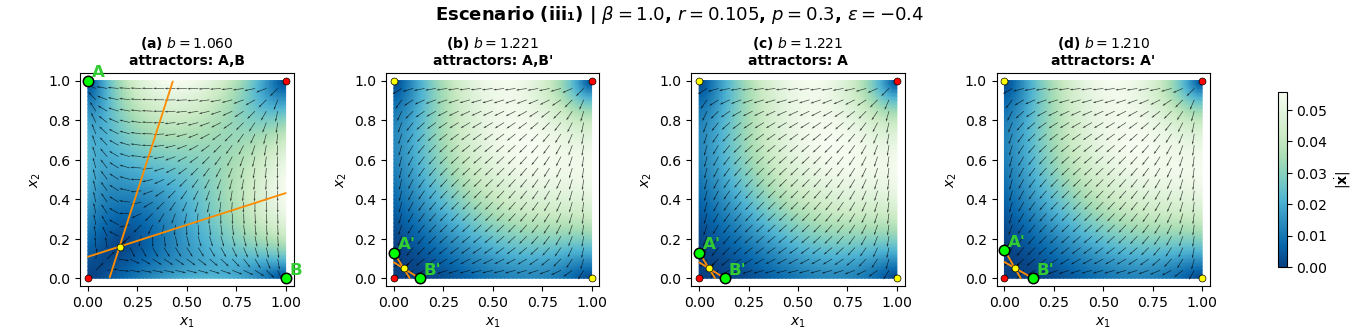
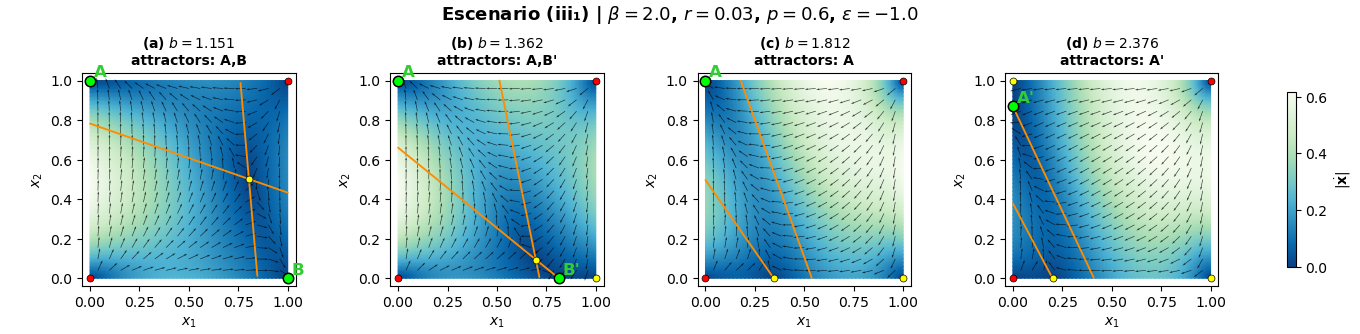
...

diff --git a/PhasePortraitsMeanField/phase_portraits_scenarios.py b/PhasePortraitsMeanField/phase_portraits_scenarios.py
@@ -250,10 +250,10 @@ EXAMPLE_PARAMETER_SETS: Dict[str, Dict[str, float]] = {
     "(ii₂)": dict(beta=1.01, r=0.000396, p=0.020, eps=-0.020),
 
     "(ii₁)": dict(beta=1.50, r=0.316, p=0.80, eps=-1.00),
-    "(iii₁)": dict(beta=1.0, r=0.105, p=0.30, eps=-0.40),
+    "(iii₁)": dict(beta=2.0, r=0.03, p=0.60, eps=-1.0),
     "(iii₂)": dict(beta=1.50, r=0.010, p=0.575, eps=-1.00),
     "(iii₃)": dict(beta=1.25, r=0.386, p=0.80, eps=-1.00),
-    "(iii₄)": dict(beta=1.25, r=0.050, p=0.775, eps=-1.00),
+    "(iii₄)": dict(beta=1.0, r=0.0, p=0.3, eps=-0.4),
 }
 
 
@@ -565,7 +565,9 @@ def find_params_for_AB_A_Ap_E():
 
 if __name__ == "__main__":
     # Option 1: reproduce an article-like symmetric sequence, Fig.2 style.
-    plot_table_scenario("(ii₂)", beta=1.1053, r=0.100, p=0.521, eps=-1.000, save=False)
+    # plot_table_scenario("(ii₂)", beta=1.1053, r=0.100, p=0.521, eps=-1.000, save=False)
+    # plot_table_scenario("(iii₄)", beta=1.0, r=0.0, p=0.3, eps=-0.4, save=False)
+    plot_table_scenario("(iii₁)", beta=2.0, r=0.03, p=0.60, eps=-1.0, save=False)
     plt.show()
     
 
